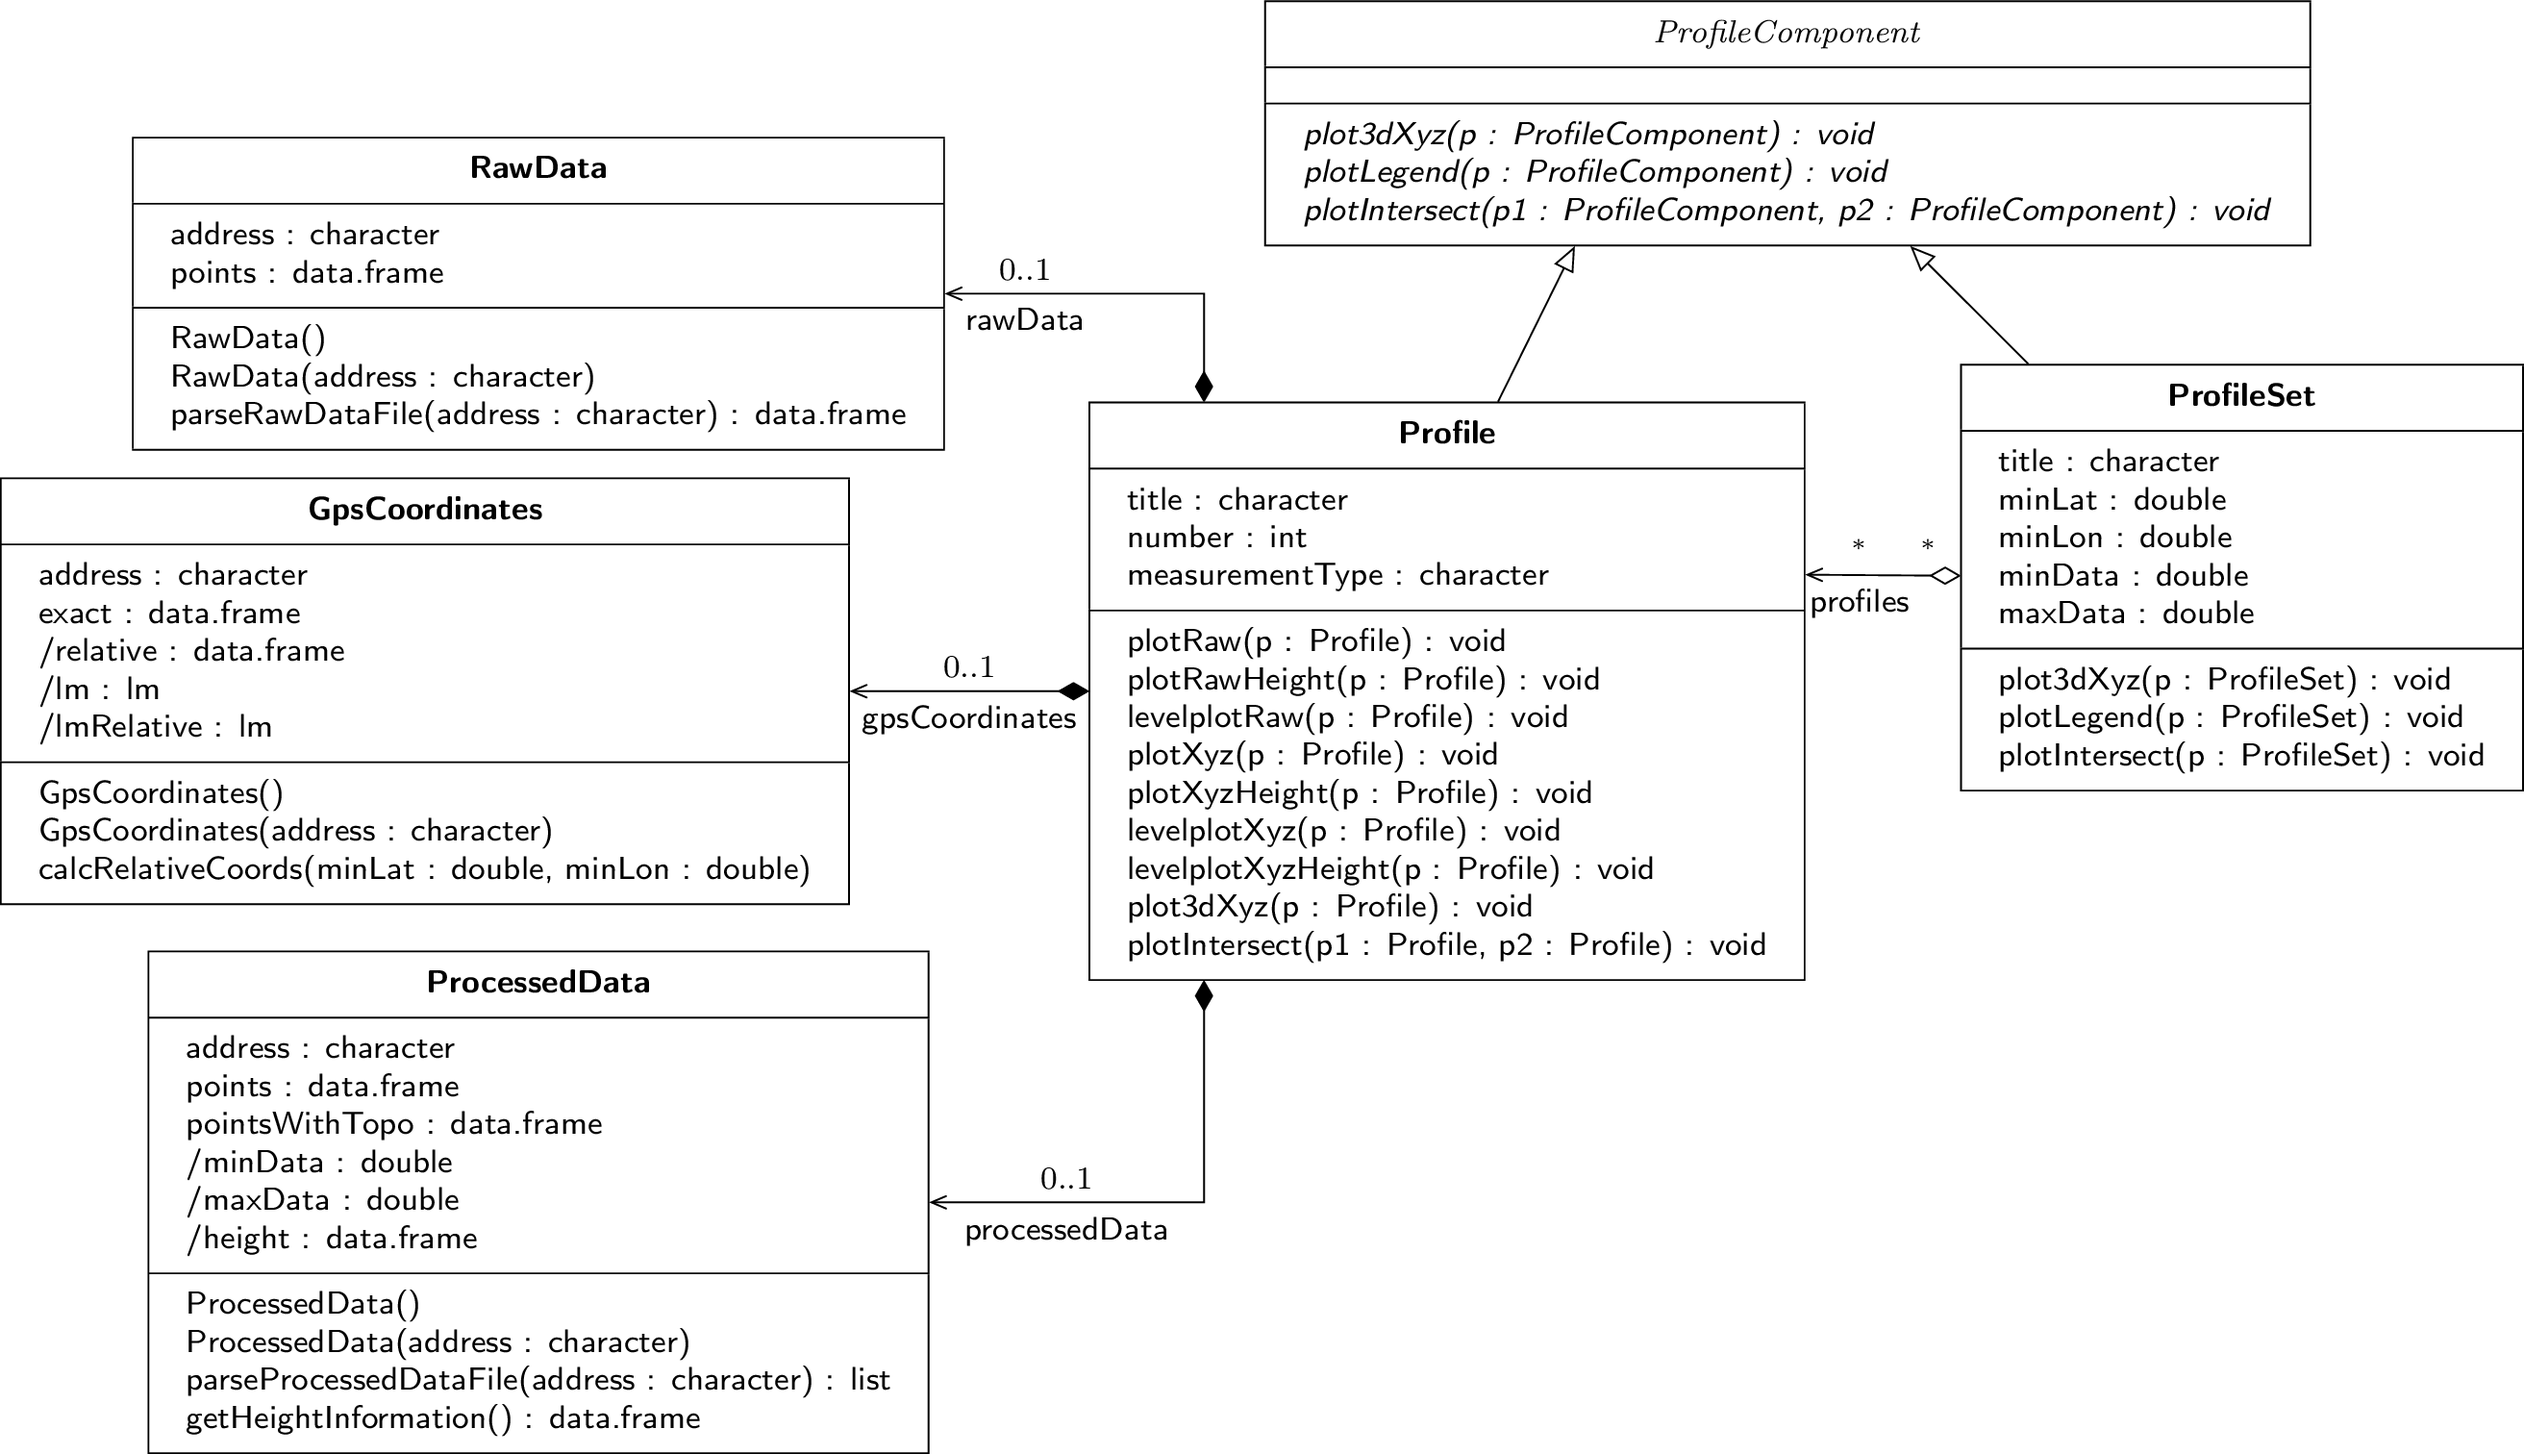
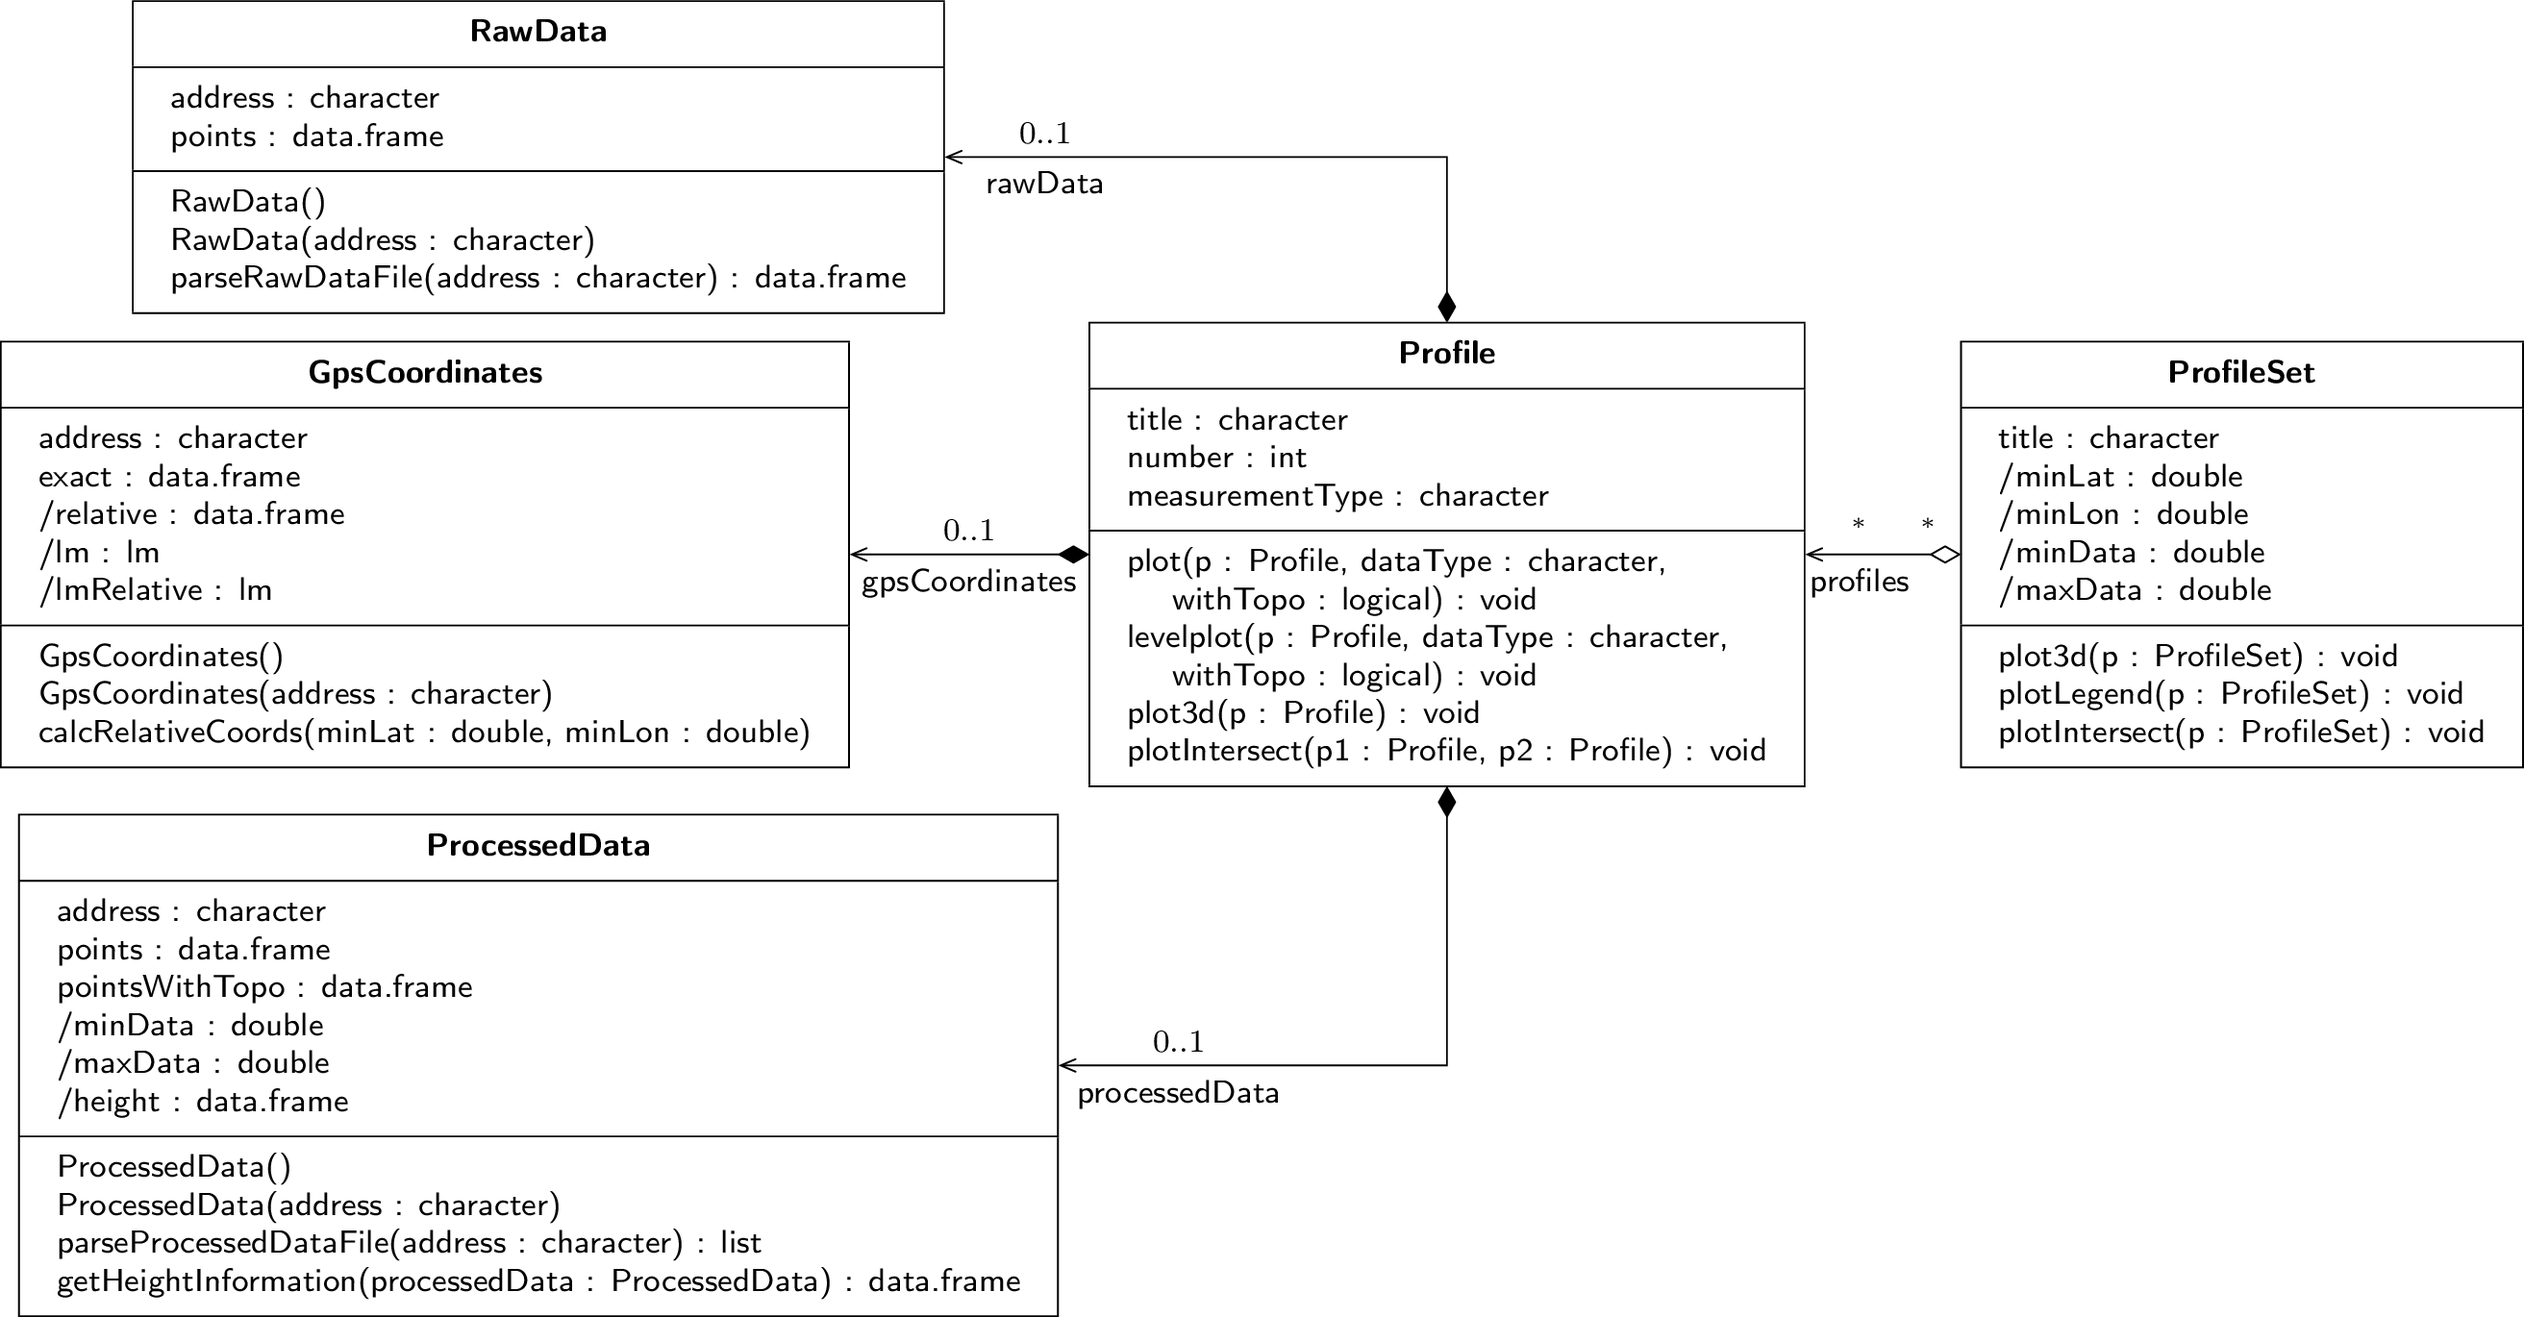
Version 0.2.0

diff --git a/inst/img/class_diagram.tex b/inst/img/class_diagram.tex
@@ -11,10 +11,10 @@
 	plotIntersect(p1 : Profile, p2 : Profile) : void}
 \umlclass[x=13, y=-4]{ProfileSet}{
 	title : character\\
-	minLat : double\\
-	minLon : double\\
-	minData : double\\
-	maxData : double}{
+	/minLat : double\\
+	/minLon : double\\
+	/minData : double\\
+	/maxData : double}{
 	plot3d(p : ProfileSet) : void\\
 	plotLegend(p : ProfileSet) : void\\
 	plotIntersect(p : ProfileSet) : void}
